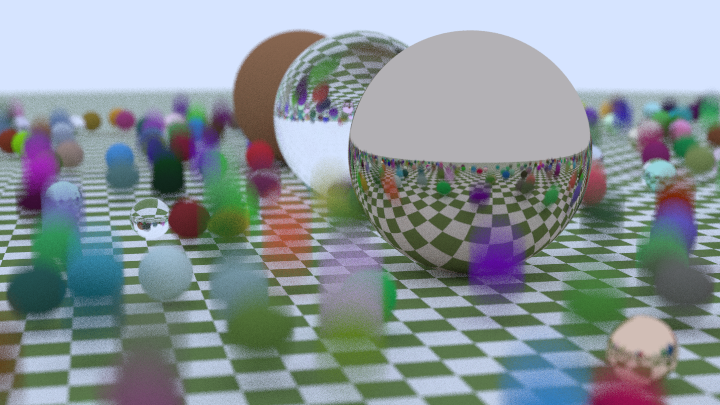
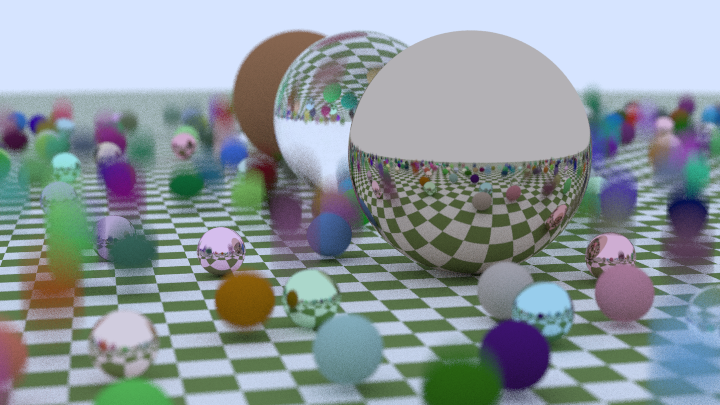
replace diffuse with diffusebrdf

diff --git a/src/main.rs b/src/main.rs
@@ -2,11 +2,11 @@ use std::env;
 use std::sync::Arc;
 
 use path_tracer::{
-    bsdf::principled::PrincipledBSDF,
+    bsdf::{diffuse::DiffuseBRDF, principled::PrincipledBSDF},
     camera::Camera,
     hittable::{Quad, Sphere, World},
     light::PointLight,
-    material::{Diffuse, DiffuseLight, MaterialType, MixMaterial, Refractive, Specular},
+    material::{DiffuseLight, MaterialType, MixMaterial, Refractive, Specular},
     texture::{CheckerTexture, ImageTexture, SolidTexture},
     vec3::{random_vector, random_vector_range, Vec3},
 };
@@ -19,7 +19,7 @@ fn balls_scene() {
     let tex2 = SolidTexture::new(Vec3::new(0.9, 0.9, 0.9));
     let checker_tex = CheckerTexture::new(0.32, Arc::new(tex1), Arc::new(tex2));
 
-    let mat_ground = MaterialType::DIFFUSE(Diffuse::new(Arc::new(checker_tex)));
+    let mat_ground = MaterialType::DIFFUSE(DiffuseBRDF::new(Arc::new(checker_tex)));
 
     world.add(Sphere::new_still(
         1000.0,
@@ -30,7 +30,7 @@ fn balls_scene() {
     let mat1 = MaterialType::REFRACTIVE(Refractive::new(1.5));
     world.add(Sphere::new_still(1.0, Vec3::new(0.0, 1.0, 0.0), mat1));
 
-    let mat2 = MaterialType::DIFFUSE(Diffuse::from_rgb(Vec3::new(0.4, 0.2, 0.1)));
+    let mat2 = MaterialType::DIFFUSE(DiffuseBRDF::from_rgb(Vec3::new(0.4, 0.2, 0.1)));
     world.add(Sphere::new_still(1.0, Vec3::new(-4.0, 1.0, 0.0), mat2));
 
     let mat3 = MaterialType::SPECULAR(Specular::from_rgb(Vec3::new(0.7, 0.6, 0.5), 0.0));
@@ -44,7 +44,7 @@ fn balls_scene() {
             if (center - Vec3::new(4.0, 0.2, 0.0)).length() > 0.9 {
                 let sphere_material = if choose_mat < 0.8 {
                     let albedo = random_vector() * random_vector();
-                    MaterialType::DIFFUSE(Diffuse::from_rgb(albedo))
+                    MaterialType::DIFFUSE(DiffuseBRDF::from_rgb(albedo))
                 } else if choose_mat < 0.95 {
                     let albedo = random_vector_range(0.5, 1.0);
                     MaterialType::SPECULAR(Specular::from_rgb(albedo, 0.0))
@@ -88,14 +88,14 @@ fn earth_scene() {
     let mut world = World::new();
 
     let earth_texture = ImageTexture::new("earthmap.jpg");
-    let earth_surface = MaterialType::DIFFUSE(Diffuse::new(Arc::new(earth_texture)));
+    let earth_surface = MaterialType::DIFFUSE(DiffuseBRDF::new(Arc::new(earth_texture)));
     world.add(Sphere::new_still(
         1.0,
         Vec3::new(4.9, 1.0, 3.0),
         earth_surface,
     ));
 
-    let mat2 = MaterialType::DIFFUSE(Diffuse::from_rgb(Vec3::new(0.4, 0.2, 0.1)));
+    let mat2 = MaterialType::DIFFUSE(DiffuseBRDF::from_rgb(Vec3::new(0.4, 0.2, 0.1)));
     world.add(Sphere::new_still(1.0, Vec3::new(0.0, 1.0, 0.0), mat2));
 
     let mat3 = MaterialType::SPECULAR(Specular::from_rgb(Vec3::new(0.7, 0.6, 0.5), 0.5));
@@ -104,7 +104,7 @@ fn earth_scene() {
     let tex1 = SolidTexture::new(Vec3::new(0.9, 0.0, 0.1));
     let tex2 = SolidTexture::new(Vec3::new(0.9, 0.9, 0.9));
     let checker_tex = CheckerTexture::new(0.62, Arc::new(tex1), Arc::new(tex2));
-    let mat_ground = MaterialType::DIFFUSE(Diffuse::new(Arc::new(checker_tex)));
+    let mat_ground = MaterialType::DIFFUSE(DiffuseBRDF::new(Arc::new(checker_tex)));
     world.add(Sphere::new_still(
         1000.0,
         Vec3::new(0.0, -1000.0, 0.0),
@@ -135,11 +135,11 @@ fn earth_scene() {
 }
 
 fn quads_scene() {
-    let red = MaterialType::DIFFUSE(Diffuse::from_rgb(Vec3::new(1.0, 0.2, 0.2)));
-    let green = MaterialType::DIFFUSE(Diffuse::from_rgb(Vec3::new(0.2, 1.0, 0.2)));
-    let blue = MaterialType::DIFFUSE(Diffuse::from_rgb(Vec3::new(0.2, 0.2, 1.0)));
-    let orange = MaterialType::DIFFUSE(Diffuse::from_rgb(Vec3::new(1.0, 0.5, 0.0)));
-    let teal = MaterialType::DIFFUSE(Diffuse::from_rgb(Vec3::new(0.2, 0.8, 0.8)));
+    let red = MaterialType::DIFFUSE(DiffuseBRDF::from_rgb(Vec3::new(1.0, 0.2, 0.2)));
+    let green = MaterialType::DIFFUSE(DiffuseBRDF::from_rgb(Vec3::new(0.2, 1.0, 0.2)));
+    let blue = MaterialType::DIFFUSE(DiffuseBRDF::from_rgb(Vec3::new(0.2, 0.2, 1.0)));
+    let orange = MaterialType::DIFFUSE(DiffuseBRDF::from_rgb(Vec3::new(1.0, 0.5, 0.0)));
+    let teal = MaterialType::DIFFUSE(DiffuseBRDF::from_rgb(Vec3::new(0.2, 0.8, 0.8)));
 
     let mut world = World::new();
     world.add(Quad::new(
@@ -199,7 +199,7 @@ fn quads_scene() {
 fn basic_light_scene() {
     let mut world = World::new();
 
-    let red = MaterialType::DIFFUSE(Diffuse::from_rgb(Vec3::new(0.65, 0.05, 0.05)));
+    let red = MaterialType::DIFFUSE(DiffuseBRDF::from_rgb(Vec3::new(0.65, 0.05, 0.05)));
     world.add(Sphere::new_still(
         1000.0,
         Vec3::new(0.0, -1000.0, 0.0),
@@ -207,12 +207,12 @@ fn basic_light_scene() {
     ));
 
     // plasticy cermaicy material???
-    let mat1a = Diffuse::from_rgb(Vec3::new(0.7, 0.9, 0.5));
+    let mat1a = DiffuseBRDF::from_rgb(Vec3::new(0.7, 0.9, 0.5));
     let mat1b = Specular::from_rgb(Vec3::ONE, 0.1);
     let mat1 = MaterialType::MIX(MixMaterial::new(0.05, Arc::new(mat1a), Arc::new(mat1b)));
     world.add(Sphere::new_still(2.0, Vec3::new(-4.0, 2.0, 0.0), mat1));
 
-    let mat_diffuse = MaterialType::DIFFUSE(Diffuse::from_rgb(Vec3::ONE));
+    let mat_diffuse = MaterialType::DIFFUSE(DiffuseBRDF::from_rgb(Vec3::ONE));
     world.add(Sphere::new_still(
         2.0,
         Vec3::new(0.0, 2.0, 0.0),
@@ -261,9 +261,9 @@ fn basic_light_scene() {
 fn cornell_box_scene() {
     let mut world = World::new();
 
-    let red = MaterialType::DIFFUSE(Diffuse::from_rgb(Vec3::new(0.65, 0.05, 0.05)));
-    let white = MaterialType::DIFFUSE(Diffuse::from_rgb(Vec3::new(0.73, 0.73, 0.73)));
-    let green = MaterialType::DIFFUSE(Diffuse::from_rgb(Vec3::new(0.12, 0.45, 0.15)));
+    let red = MaterialType::DIFFUSE(DiffuseBRDF::from_rgb(Vec3::new(0.65, 0.05, 0.05)));
+    let white = MaterialType::DIFFUSE(DiffuseBRDF::from_rgb(Vec3::new(0.73, 0.73, 0.73)));
+    let green = MaterialType::DIFFUSE(DiffuseBRDF::from_rgb(Vec3::new(0.12, 0.45, 0.15)));
     let diffuse_light = MaterialType::LIGHT(DiffuseLight::from_rgb(Vec3::new(25.0, 25.0, 25.0)));
     world.add(Quad::new(
         Vec3::new(555.0, 0.0, 0.0),
@@ -302,19 +302,20 @@ fn cornell_box_scene() {
         white.clone(),
     ));
 
+    let color_tex = Arc::new(SolidTexture::new(Vec3::new(0.65, 0.05, 0.05)));
     let mat = MaterialType::TEST(PrincipledBSDF::new(
-        Vec3::new(0.65, 0.05, 0.05), // base_color,
-        0.01,                        // metallic,
-        0.01,                        // roughness,
-        0.01,                        // subsurface,
-        0.91,                        // specular,
-        0.91,                        // specular_tint,
-        1.5,                         // ior,
-        0.01,                        // spec_trans,
-        0.91,                        // sheen,
-        0.91,                        // sheen_tint,
-        0.91,                        // clearcoat,
-        0.01,                        // clearcoat_gloss,
+        color_tex, // base_color,
+        0.01,      // metallic,
+        0.01,      // roughness,
+        0.01,      // subsurface,
+        0.91,      // specular,
+        0.91,      // specular_tint,
+        1.5,       // ior,
+        0.01,      // spec_trans,
+        0.91,      // sheen,
+        0.91,      // sheen_tint,
+        0.91,      // clearcoat,
+        0.01,      // clearcoat_gloss,
     ));
     world.add(Sphere::new_still(
         105.0,
@@ -374,24 +375,29 @@ fn cornell_box_scene() {
 
 fn test_scene() {
     let mut world = World::new();
-    let material_ground = MaterialType::DIFFUSE(Diffuse::from_rgb(Vec3::new(0.8, 0.8, 0.0)));
-    let material_center = MaterialType::DIFFUSE(Diffuse::from_rgb(Vec3::new(0.1, 0.2, 0.5)));
+    let material_ground = MaterialType::DIFFUSE(DiffuseBRDF::from_rgb(Vec3::new(0.8, 0.8, 0.0)));
+    let material_center = MaterialType::DIFFUSE(DiffuseBRDF::from_rgb(Vec3::new(0.1, 0.2, 0.5)));
     // let material_left = MaterialType::TEST(MetalBRDF::new(Vec3::new(0.8, 0.1, 0.2), 0.3));
     // let material_left = MaterialType::TEST(GlassBSDF::new(0.1, 1.5));
     // let material_left = MaterialType::TEST(ClearcoatBRDF::new(0.5));
+    let color_tex = Arc::new(SolidTexture::new(Vec3::new(0.8, 0.2, 0.2)));
+
+    let tex1 = SolidTexture::new(Vec3::new(0.2, 0.3, 0.1));
+    let tex2 = SolidTexture::new(Vec3::new(0.9, 0.9, 0.9));
+    // let color_tex = Arc::new(CheckerTexture::new(0.32, Arc::new(tex1), Arc::new(tex2)));
     let material_left = MaterialType::TEST(PrincipledBSDF::new(
-        Vec3::new(0.8, 0.2, 0.2), // base_color,
-        0.00,                     // metallic,
-        0.01,                     // roughness,
-        0.01,                     // subsurface,
-        0.00,                     // specular,
-        0.01,                     // specular_tint,
-        1.5,                      // ior,
-        0.09,                     // spec_trans,
-        0.01,                     // sheen,
-        0.01,                     // sheen_tint,
-        0.01,                     // clearcoat,
-        0.01,                     // clearcoat_gloss,
+        color_tex, // base_color,
+        0.00,      // metallic,
+        0.91,      // roughness,
+        0.01,      // subsurface,
+        0.00,      // specular,
+        0.01,      // specular_tint,
+        1.5,       // ior,
+        0.09,      // spec_trans,
+        0.01,      // sheen,
+        0.01,      // sheen_tint,
+        0.01,      // clearcoat,
+        0.01,      // clearcoat_gloss,
     ));
     // let material_left = MaterialType::REFRACTIVE(Refractive::new(1.5));
     let material_right = MaterialType::SPECULAR(Specular::from_rgb(Vec3::new(0.8, 0.1, 0.2), 0.3));
@@ -421,7 +427,7 @@ fn test_scene() {
 
     let mut camera = Camera::new();
     camera.aspect_ratio = 16.0 / 9.0;
-    camera.image_width = 900;
+    camera.image_width = 500;
     camera.samples_per_pixel = 100;
     camera.max_depth = 20;
 
@@ -443,7 +449,7 @@ fn test_scene() {
 fn main() {
     env::set_var("RUST_BACKTRACE", "1");
 
-    let x = 2;
+    let x = 1;
     match x {
         1 => balls_scene(),
         2 => earth_scene(),

diff --git a/src/bsdf/principled.rs b/src/bsdf/principled.rs
@@ -1,11 +1,12 @@
-use std::f64::consts::PI;
+use std::{f64::consts::PI, sync::Arc};
 
 use glam::FloatExt;
 
-use crate::{hittable::HitInfo, material::Material, ray::Ray, vec3::Vec3};
+use crate::{hittable::HitInfo, material::Material, ray::Ray, texture::Texture, vec3::Vec3};
 
 use super::{
-    fresnel::{self, schlick_weight}, r0,
+    fresnel::{self, schlick_weight},
+    r0,
     sampling::{cosine_sample_hemisphere, ggx, gtr1, to_local, to_world},
     tint, BxDF, EPS,
 };
@@ -20,7 +21,7 @@ use super::{
 /// smooth glass
 /// rough glass
 pub struct PrincipledBSDF {
-    base_color: Vec3, // TODO replace with texture
+    base_color: Arc<dyn Texture<Vec3>>,
 
     metallic: f64,
     roughness: f64,
@@ -42,7 +43,7 @@ pub struct PrincipledBSDF {
 
 impl PrincipledBSDF {
     pub fn new(
-        base_color: Vec3,
+        base_color: Arc<dyn Texture<Vec3>>,
         metallic: f64,
         roughness: f64,
         subsurface: f64,
@@ -192,7 +193,7 @@ impl PrincipledBSDF {
 
     // note that the evals here do not include the cosine, only the final public one in
     // PrincipledBSFD::eval does
-    fn eval_diffuse(&self, v: Vec3, l: Vec3, h: Vec3) -> Vec3 {
+    fn eval_diffuse(&self, color: Vec3, v: Vec3, l: Vec3, h: Vec3) -> Vec3 {
         let l_dot_h = l.dot(h);
         let rr = 2.0 * self.roughness * l_dot_h * l_dot_h;
 
@@ -208,7 +209,7 @@ impl PrincipledBSDF {
         let f_ss = 1.0.lerp(fss90, fl) * 1.0.lerp(fss90, fv);
         let ss = 1.25 * (f_ss * (1.0 / (l.z + v.z) - 0.5) + 0.5);
 
-        self.base_color / PI * (f_d + f_retro).lerp(ss, self.subsurface)
+        color / PI * (f_d + f_retro).lerp(ss, self.subsurface)
     }
 
     fn eval_specular(&self, fresnel: Vec3, v: Vec3, l: Vec3, h: Vec3) -> Vec3 {
@@ -314,6 +315,7 @@ impl BxDF for PrincipledBSDF {
     }
 
     fn eval(&self, view_dir: Vec3, light_dir: Vec3, info: &HitInfo) -> Vec3 {
+        let base_color = self.base_color.value(info.u, info.v, &info.point);
         let (diffuse_wt, specular_wt, glass_wt, clearcoat_wt) = self.lobe_weights();
         let (diffuse_p, specular_p, glass_p, clearcoat_p) =
             self.lobe_probabilities(diffuse_wt, specular_wt, glass_wt, clearcoat_wt);
@@ -336,16 +338,16 @@ impl BxDF for PrincipledBSDF {
 
         let mut brdf = Vec3::ZERO;
         if diffuse_p > 0.0 && reflect {
-            let c_tint = tint(self.base_color);
+            let c_tint = tint(base_color);
             let c_sheen = Vec3::ONE.lerp(c_tint, self.sheen_tint);
             let sheen_term = self.sheen * c_sheen * schlick_weight(l.dot(h).abs());
-            let diffuse_term = self.eval_diffuse(v, l, h);
+            let diffuse_term = self.eval_diffuse(c_tint, v, l, h);
             brdf += diffuse_wt * (diffuse_term + sheen_term)
         }
         if specular_p > 0.0 && reflect {
-            let c_tint = tint(self.base_color);
+            let c_tint = tint(base_color);
             let ks = Vec3::ONE.lerp(c_tint, self.specular_tint);
-            let c0 = (self.specular * r0(eta_i / eta_o) * ks).lerp(self.base_color, self.metallic);
+            let c0 = (self.specular * r0(eta_i / eta_o) * ks).lerp(base_color, self.metallic);
 
             let metallic_fresnel = fresnel::schlick(c0, l.dot(h));
             let dielectric_fresnel = Vec3::splat(fresnel::dielectric(v, h, eta_i, eta_o));
@@ -359,7 +361,7 @@ impl BxDF for PrincipledBSDF {
         if clearcoat_p > 0.0 && reflect {
             brdf += clearcoat_wt * self.eval_clearcoat(v, l, h)
         }
-        
+
         brdf * l.z.abs()
     }
 }
@@ -379,4 +381,3 @@ impl Material for PrincipledBSDF {
         (brdf_weight, Some(next_ray))
     }
 }
-

diff --git a/src/bsdf/diffuse.rs b/src/bsdf/diffuse.rs
@@ -2,18 +2,30 @@ use super::{
     sampling::{cosine_sample_hemisphere, to_local, to_world},
     BxDF, EPS,
 };
-use crate::{hittable::HitInfo, material::Material, ray::Ray, vec3::Vec3};
-use std::f64::consts::PI;
+use crate::{
+    hittable::HitInfo,
+    material::Material,
+    ray::Ray,
+    texture::{SolidTexture, Texture},
+    vec3::Vec3,
+};
+use std::{f64::consts::PI, sync::Arc};
 
 #[derive(Clone)]
 pub struct DiffuseBRDF {
-    base_color: Vec3,
+    base_color: Arc<dyn Texture<Vec3>>,
 }
 
 // Lambertian diffuse, NOT the one used in PrincipledBSDF
 impl DiffuseBRDF {
-    pub fn new(base_color: Vec3) -> Self {
+    pub fn new(base_color: Arc<dyn Texture<Vec3>>) -> Self {
         Self { base_color }
+    }
+
+    pub fn from_rgb(base_color: Vec3) -> Self {
+        Self {
+            base_color: Arc::new(SolidTexture::new(base_color)),
+        }
     }
 }
 
@@ -29,19 +41,21 @@ impl BxDF for DiffuseBRDF {
     }
 
     fn eval(&self, _view_dir: Vec3, light_dir: Vec3, info: &HitInfo) -> Vec3 {
+        let color = self.base_color.value(info.u, info.v, &info.point);
         let l = to_local(info.normal, light_dir);
-        l.z.abs() * (self.base_color / PI)
+        l.z.abs() * (color / PI)
     }
 }
 
 impl Material for DiffuseBRDF {
     /// optimized version combining sample, pdf, and eval
     fn scatter(&self, ray: &Ray, hit_info: &HitInfo) -> (Vec3, Option<Ray>) {
+        let color = self.base_color.value(hit_info.u, hit_info.v, &hit_info.point);
         let Some(dir) = self.sample(ray, hit_info) else {
-            return (self.base_color, None);
+            return (Vec3::ONE, None);
         };
 
         let next_ray = Ray::new(hit_info.point + EPS * hit_info.normal, dir, ray.time());
-        (self.base_color, Some(next_ray))
+        (color, Some(next_ray))
     }
 }

diff --git a/src/material.rs b/src/material.rs
@@ -3,7 +3,7 @@ use std::{f64::consts::PI, sync::Arc};
 use rand::{thread_rng, Rng};
 
 use crate::{
-    bsdf::principled::PrincipledBSDF,
+    bsdf::{diffuse::DiffuseBRDF, glass::GlassBSDF, metal::MetalBRDF, principled::PrincipledBSDF},
     hittable::hit_info::HitInfo,
     ray::Ray,
     texture::{SolidTexture, Texture},
@@ -208,7 +208,7 @@ impl Material for MixMaterial {
 #[derive(Clone)]
 pub enum MaterialType {
     TEST(PrincipledBSDF),
-    DIFFUSE(Diffuse),
+    DIFFUSE(DiffuseBRDF),
     SPECULAR(Specular),
     REFRACTIVE(Refractive),
     LIGHT(DiffuseLight),
@@ -217,6 +217,7 @@ pub enum MaterialType {
 
 impl Default for MaterialType {
     fn default() -> Self {
-        Self::DIFFUSE(Diffuse::from_rgb(Vec3::ONE))
+        // Self::DIFFUSE(Diffuse::from_rgb(Vec3::ONE))
+        Self::DIFFUSE(DiffuseBRDF::from_rgb(Vec3::ONE))
     }
 }
